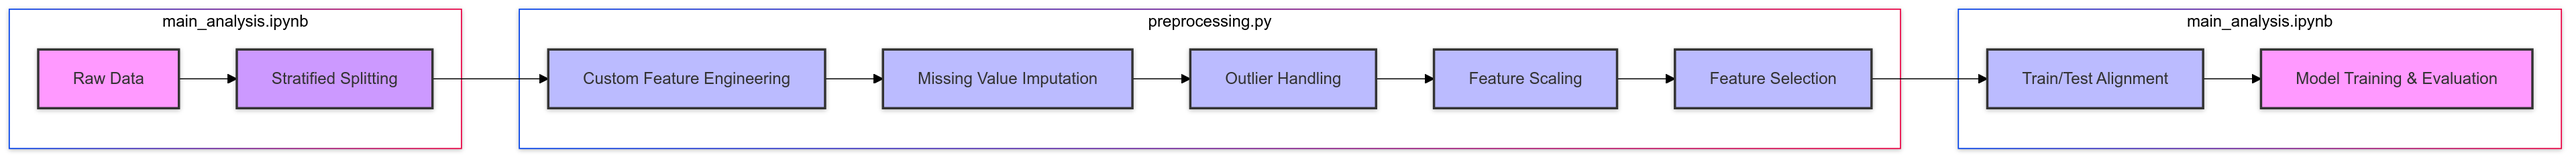
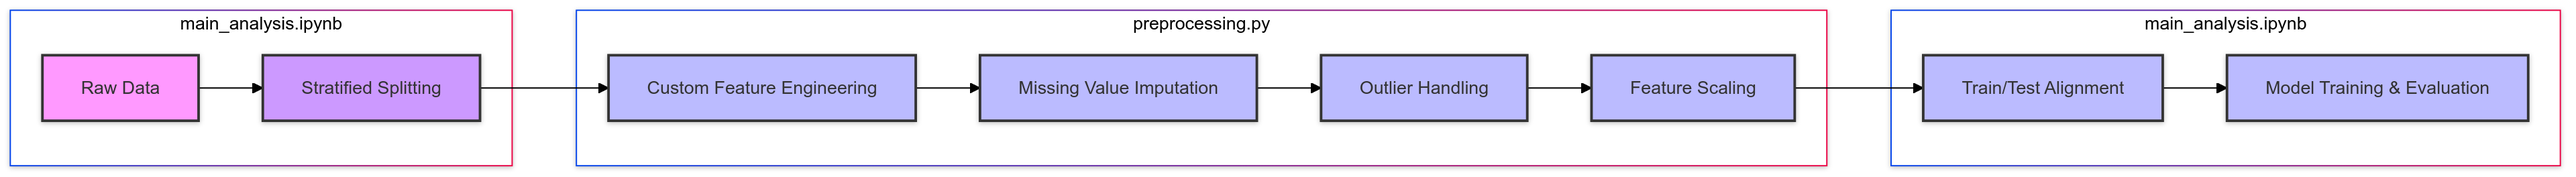
Update README and 5files

Changed region(s): [[0.0, 0.2954, 1.0, 0.7089], [0.0, 0.0295, 1.0, 0.1772], [0.0, 0.9156, 1.0, 0.9747]]

diff --git a/scripts/preprocessing.py b/scripts/preprocessing.py
@@ -5,9 +5,6 @@ from sklearn.compose import ColumnTransformer
 from sklearn.pipeline import Pipeline
 from sklearn.preprocessing import OneHotEncoder, StandardScaler
 from sklearn.impute import SimpleImputer
-from sklearn.ensemble import RandomForestRegressor
-from sklearn.feature_selection import SelectFromModel
-
 
 # Haversine formula to calculate distance between two points (latitude, longitude)
 def haversine(lat1, lon1, lat2, lon2):
@@ -154,23 +151,6 @@ class OutlierHandler(BaseEstimator, TransformerMixin):
         X = X.fillna(self.fill_values_)  # Fill NaN with computed values (e.g., mean)
         return X
 
-
-# Feature selection class
-class FeatureSelector(BaseEstimator, TransformerMixin):
-    def __init__(self, threshold='median'):
-        self.threshold = threshold
-        self.selector = None
-
-    def fit(self, X, y):
-        model = RandomForestRegressor(n_estimators=100, random_state=42)
-        model.fit(X, y)
-        self.selector = SelectFromModel(model, threshold=self.threshold, prefit=True)
-        return self
-
-    def transform(self, X):
-        return pd.DataFrame(self.selector.transform(X), index=X.index, columns=X.columns[self.selector.get_support()])
-
-
 # Function to create preprocessing pipeline for numerical and categorical features
 def create_preprocessing_pipeline(numerical_features, categorical_features):
     """
@@ -233,19 +213,4 @@ def preprocess_data(train_data, coastline_points):
     # Create preprocessing pipeline based on feature types
     preprocessing_pipeline = create_preprocessing_pipeline(numerical_features, categorical_features)
 
-    # Apply the preprocessing pipeline
-    # Apply the preprocessing pipeline
-    x_train_preprocessed = preprocessing_pipeline.fit_transform(x_train_fe)
-
-    # ** Why preprocess again here? **
-    # At this point, `x_train_preprocessed` is the standardized, encoded version of `x_train_fe`.
-    # Feature selection methods like Random Forest expect numerical arrays and work with cleaned data.
-    # Preprocessing ensures the data is in the correct format (e.g., no missing values, standardized scales, etc.)
-    
-    # Apply feature selection
-    feature_selector = FeatureSelector(threshold='median')
-    x_train_selected = feature_selector.fit_transform(
-        pd.DataFrame(x_train_preprocessed, columns=numerical_features + categorical_features),
-        y_train)
-    
-    return x_train_selected, y_train, preprocessing_pipeline
+    return x_train_fe, y_train, preprocessing_pipeline  # Return preprocessed data and pipeline

diff --git a/README.md b/README.md
@@ -105,7 +105,6 @@ This preprocessing step ensures compatibility with machine learning models and a
   - Addressed missing and infinite values using a combination of mean imputation and dynamic outlier handling.
   - Scaled numerical features to ensure uniformity across variable ranges using `StandardScaler`.
   - Encoded categorical variables with `OneHotEncoder` (with `drop_first=True` to mitigate multicollinearity).
-  - Applied feature selection using a Random Forest-based approach to retain impactful predictors.
 
 ### Key Preprocessing Innovations
 - **Dynamic Feature Identification**: Automated separation of numerical and categorical features for flexible, adaptable preprocessing.
@@ -317,36 +316,6 @@ We implemented two stacking approaches using different meta-learners:
 
 ## Model Performance Diagram
 ![Model Performance](./images/ModelPerformanceDiagram.png)
-
-```mermaid
-      graph TB
-         subgraph "Model Training Pipeline"
-            A[Individual Models] --> B[Weighted Averaging]
-            A --> C[Stacking Ensembles]
-            
-            subgraph "Base Models"
-                  D[LightGBM<br/>R² = 0.4168] --> A
-                  E[XGBoost<br/>R² = 0.4343] --> A
-            end
-            
-            subgraph "Ensemble Methods"
-                  B --> F[0.1/0.9 Split<br/>R² = 0.4338]
-                  B --> G[0.01/0.99 Split<br/>R² = 0.4343]
-                  C --> H[Ridge Meta-learner<br/>R² = 0.4440]
-                  C --> I[Neural Meta-learner<br/>R² = 0.4404]
-            end
-         end
-
-         style A fill:#f9f,stroke:#333,stroke-width:2px
-         style B fill:#bbf,stroke:#333,stroke-width:2px
-         style C fill:#bbf,stroke:#333,stroke-width:2px
-         style D fill:#dfd,stroke:#333,stroke-width:2px
-         style E fill:#dfd,stroke:#333,stroke-width:2px
-         style F fill:#ddf,stroke:#333,stroke-width:2px
-         style G fill:#ddf,stroke:#333,stroke-width:2px
-         style H fill:#ddf,stroke:#333,stroke-width:2px
-         style I fill:#ddf,stroke:#333,stroke-width:2px
-```
 
 ### Key Findings
 
